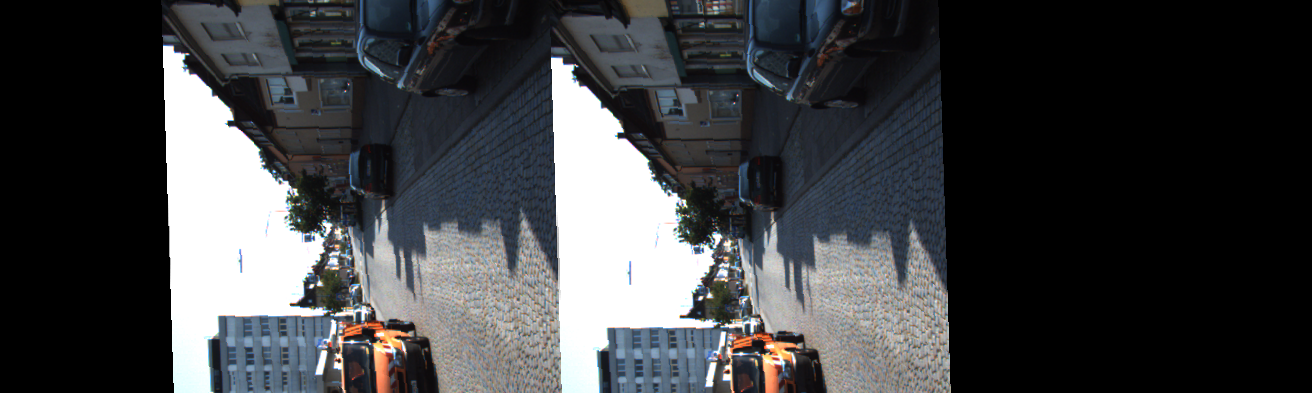
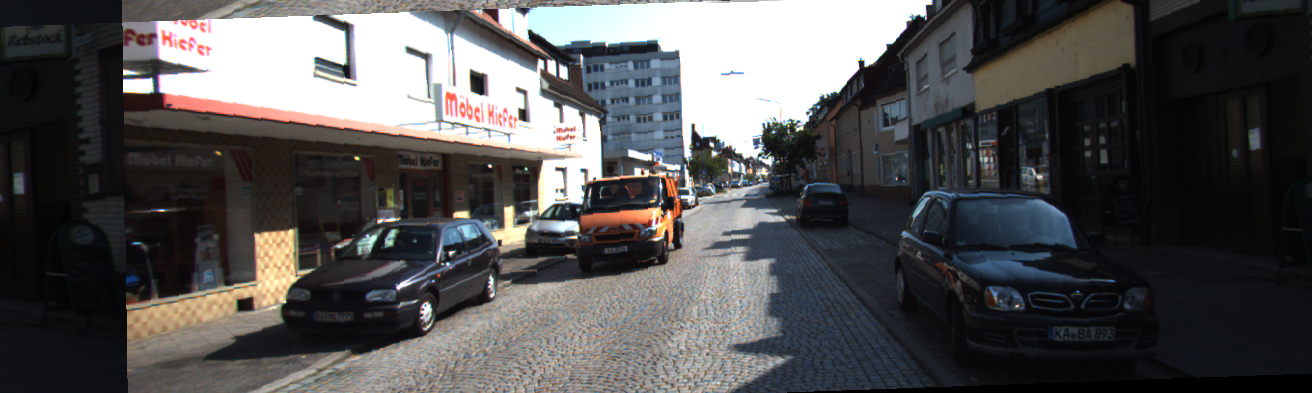
success rectification

diff --git a/workspace/libs/midterm.py b/workspace/libs/midterm.py
@@ -30,39 +30,20 @@ class VVS:
 
 
     def detect_feature_points(self, img):
-        if self.opencv:
-            # Detector parameters
-            block_size = 2
-            aperture_size = 5
-            k = 0.2
 
-            k = 0.05
+        img = cv2.cvtColor(img, cv2.COLOR_BGR2GRAY)
+        #Shi-Tomasi
+        corners = cv2.goodFeaturesToTrack(img, 10000, 0.001, 10)
 
-            epsilon = 0.005
-
-            img = cv2.cvtColor(img, cv2.COLOR_BGR2GRAY)
-            #Shi-Tomasi
-            corners = cv2.goodFeaturesToTrack(img, 10000, 0.001, 10)
-            print('----------------')
-            print(np.int0(corners[:, 0, :]))
-            
-            # img = np.float32(img)
-            # dst = cv2.cornerHarris(img, block_size, aperture_size, k)
-            # harris = np.array(np.where(dst > epsilon*dst.max())).T #shape: (n, 2)
-            # print('-sibal')
-            # print(harris)
-
-            print('----------------')
-             
-            for p in np.int0(corners):
-                x, y = p.ravel()
-                print(x, y)
-                cv2.circle(img, (x,y), 3, 255, -1 )
-            corners = corners[:, 0, :]
-            # corners[:, 0], corners[:, 1] = corners[:, 1].copy(), corners[:, 0].copy()
-            print(corners)
-           
-            return np.int0(corners), img
+        for p in np.int0(corners):
+            x, y = p.ravel()
+            print(x, y)
+            cv2.circle(img, (x,y), 3, 255, -1 )
+        corners = corners[:, 0, :]
+        corners[:, 0], corners[:, 1] = corners[:, 1].copy(), corners[:, 0].copy()
+        print(corners)
+        
+        return np.int0(corners), img
 
 
     def get_correspondence_points(self, left_points, right_points):
@@ -145,24 +126,6 @@ class VVS:
         R2 = - U @ W.T @ V.T
         R3 = - U @ W @ V.T
 
-        # tX1 = U @ W @ Sigma @ U.T
-        # tX2 = U @ W.T @ Sigma @ U.T
-        # print(f"tX:\n{tX}\ntX1:\n{tX1}\ntX2:\n{tX2}")
-        # R1 = U @ W.T @ V.T #W.T = npl.inv(W)
-        # R2 = U @ W @ V.T #W.T = npl.inv(W)
-
-        # t_tilde_x_1 = U @ W @ Sigma @ U.T
-        # t_tilde_1 = np.array([[t_tilde_x_1[2][1], t_tilde_x_1[0][2], t_tilde_x_1[1][0]]]).T
-
-        # t1_1 = - R1.T @ t_tilde_1 # R.T = npl.inv(R)
-        # t1_2 = - R2.T @ t_tilde_1 # R.T = npl.inv(R)
-
-        # t_tilde_x_2 = U @ W.T @ Sigma @ U.T
-        # t_tilde_2 = np.array([[t_tilde_x_2[2][1], t_tilde_x_2[0][2], t_tilde_x_2[1][0]]]).T
-        # print(f"tilde1: {t_tilde_x_1}\ntilde2: {t_tilde_x_2}")
-        # t2_1 = - R1.T @ t_tilde_2 # R.T = npl.inv(R)
-        # t2_2 = - R2.T @ t_tilde_2 # R.T = npl.inv(R)
-        # solutions = [(R1, t1_1), (R1, t2_1), (R2, t1_2), (R2, t2_2)]
         R_candidates = [R0, R1, R2, R3]
         for i, sol in enumerate(R_candidates):
             det = npl.det(sol)
@@ -173,7 +136,7 @@ class VVS:
             print(f"R: {sol}\n")
 
         print(f"E:\n{E}\ntX@R:{tX @ R1}\n")
-        return R0, t
+        return R1, t
 
     def estimate_Rrect(self, t): #TODO: CHECK CHECK CHECK
         e1 = t / npl.norm(t)
